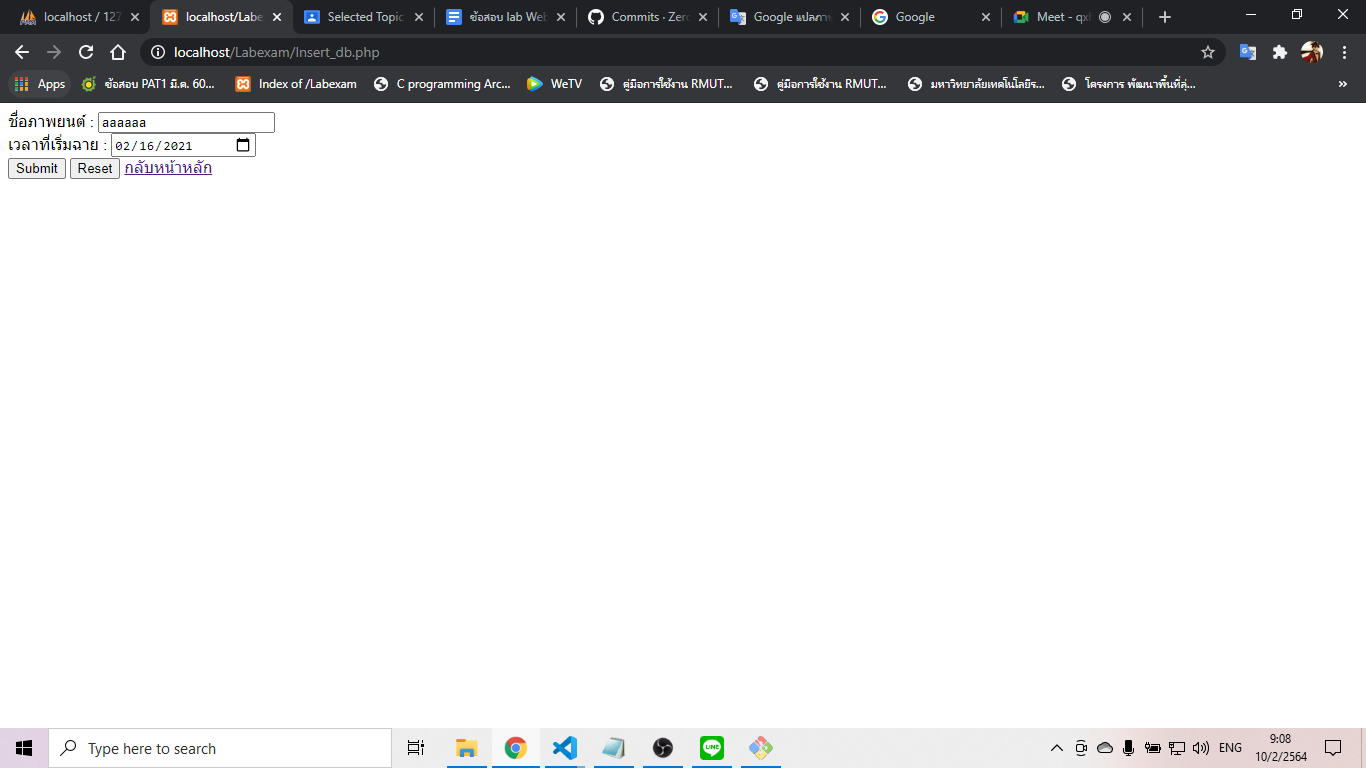
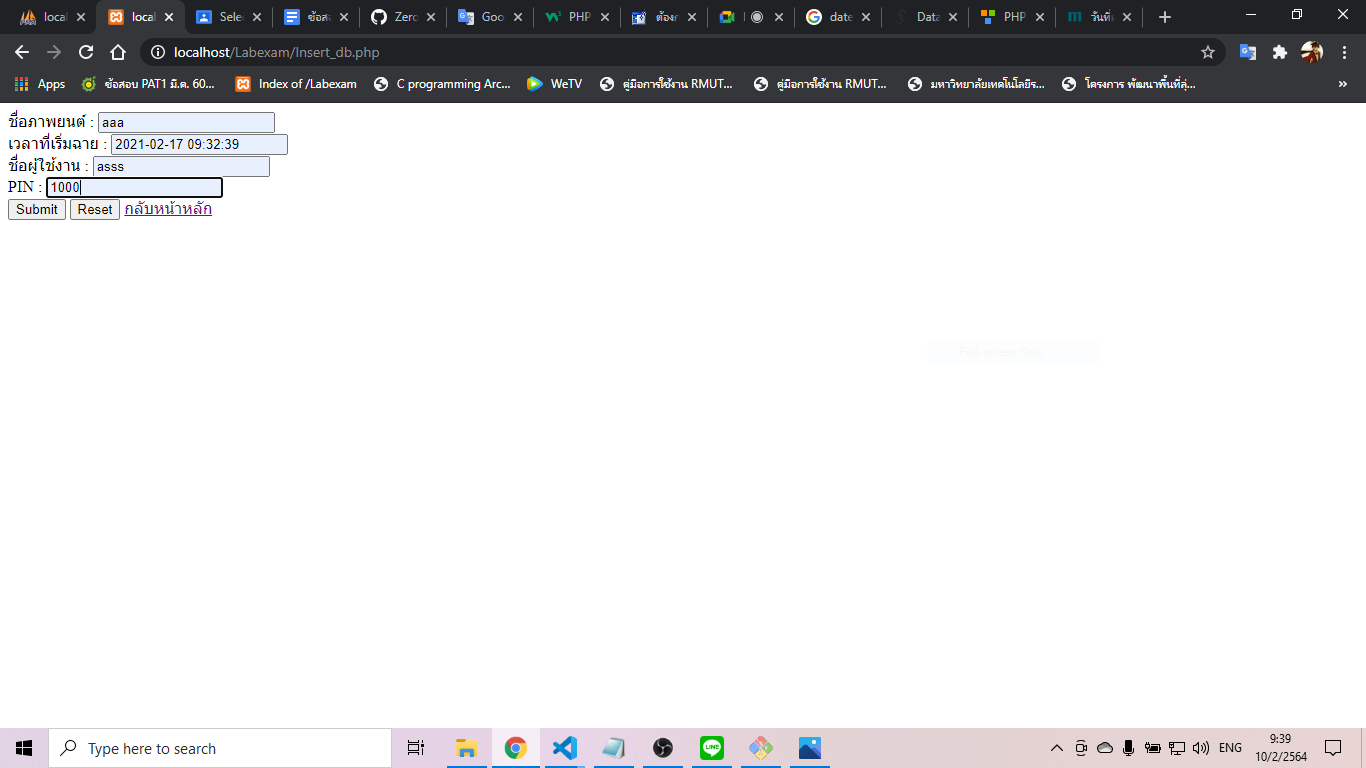
1.3

Changed region(s): [[0.2767, 0.9375, 0.7994, 1.0], [0.0307, 0.0, 0.8302, 0.0312], [0.0, 0.1562, 0.1845, 0.2812]]

diff --git a/Insert_db.php b/Insert_db.php
@@ -2,7 +2,11 @@
     <label for="movie_name">ชื่อภาพยนต์ : </label>
     <input type="text" name="movie_name" id="movie_name"><br>
     <label for="movie_time">เวลาที่เริ่มฉาย : </label>
-    <input type="date" name="movie_time"id="movie_time"><br>
+    <input type="text" name="movie_time"id="movie_time"><br>
+    <label for="movie_fname">ชื่อผู้ใช้งาน : </label>
+    <input type="text" name="movie_fname" id="movie_fname"><br>
+    <label for="movie_PIN">PIN : </label>
+    <input type="text" name="movie_PIN" id="movie_PIN"><br>
     <input type="submit">
     <input type="reset">
     <a href="select.php">กลับหน้าหลัก</a>

diff --git a/Insert.php b/Insert.php
@@ -1,7 +1,7 @@
 <?php
   require_once("sql.php");
-  $sql = "INSERT INTO movies (movie_name, movie_time)
-VALUES ('{$_POST['movie_name']}', '{$_POST['movie_time']}')";
+  $sql = "INSERT INTO movies (movie_name, movie_time,movie_fname,movie_PIN)
+VALUES ('{$_POST['movie_name']}', '{$_POST['movie_time']}', '{$_POST['movie_fname']}', '{$_POST['movie_PIN']}')";
  
 if ($conn->query($sql) === TRUE) {
   echo "New record created successfully";

diff --git a/sql.php b/sql.php
@@ -7,5 +7,6 @@ if ($conn -> connect_errno) {
   exit();
 }else {
      //echo "เชื่อม MySQLได้";
+     
 }
 ?>

diff --git a/index.php b/index.php
@@ -8,6 +8,7 @@
 <body>
 <?php
 require_once("select.php");
+
 ?>
 </body>
 </html>
